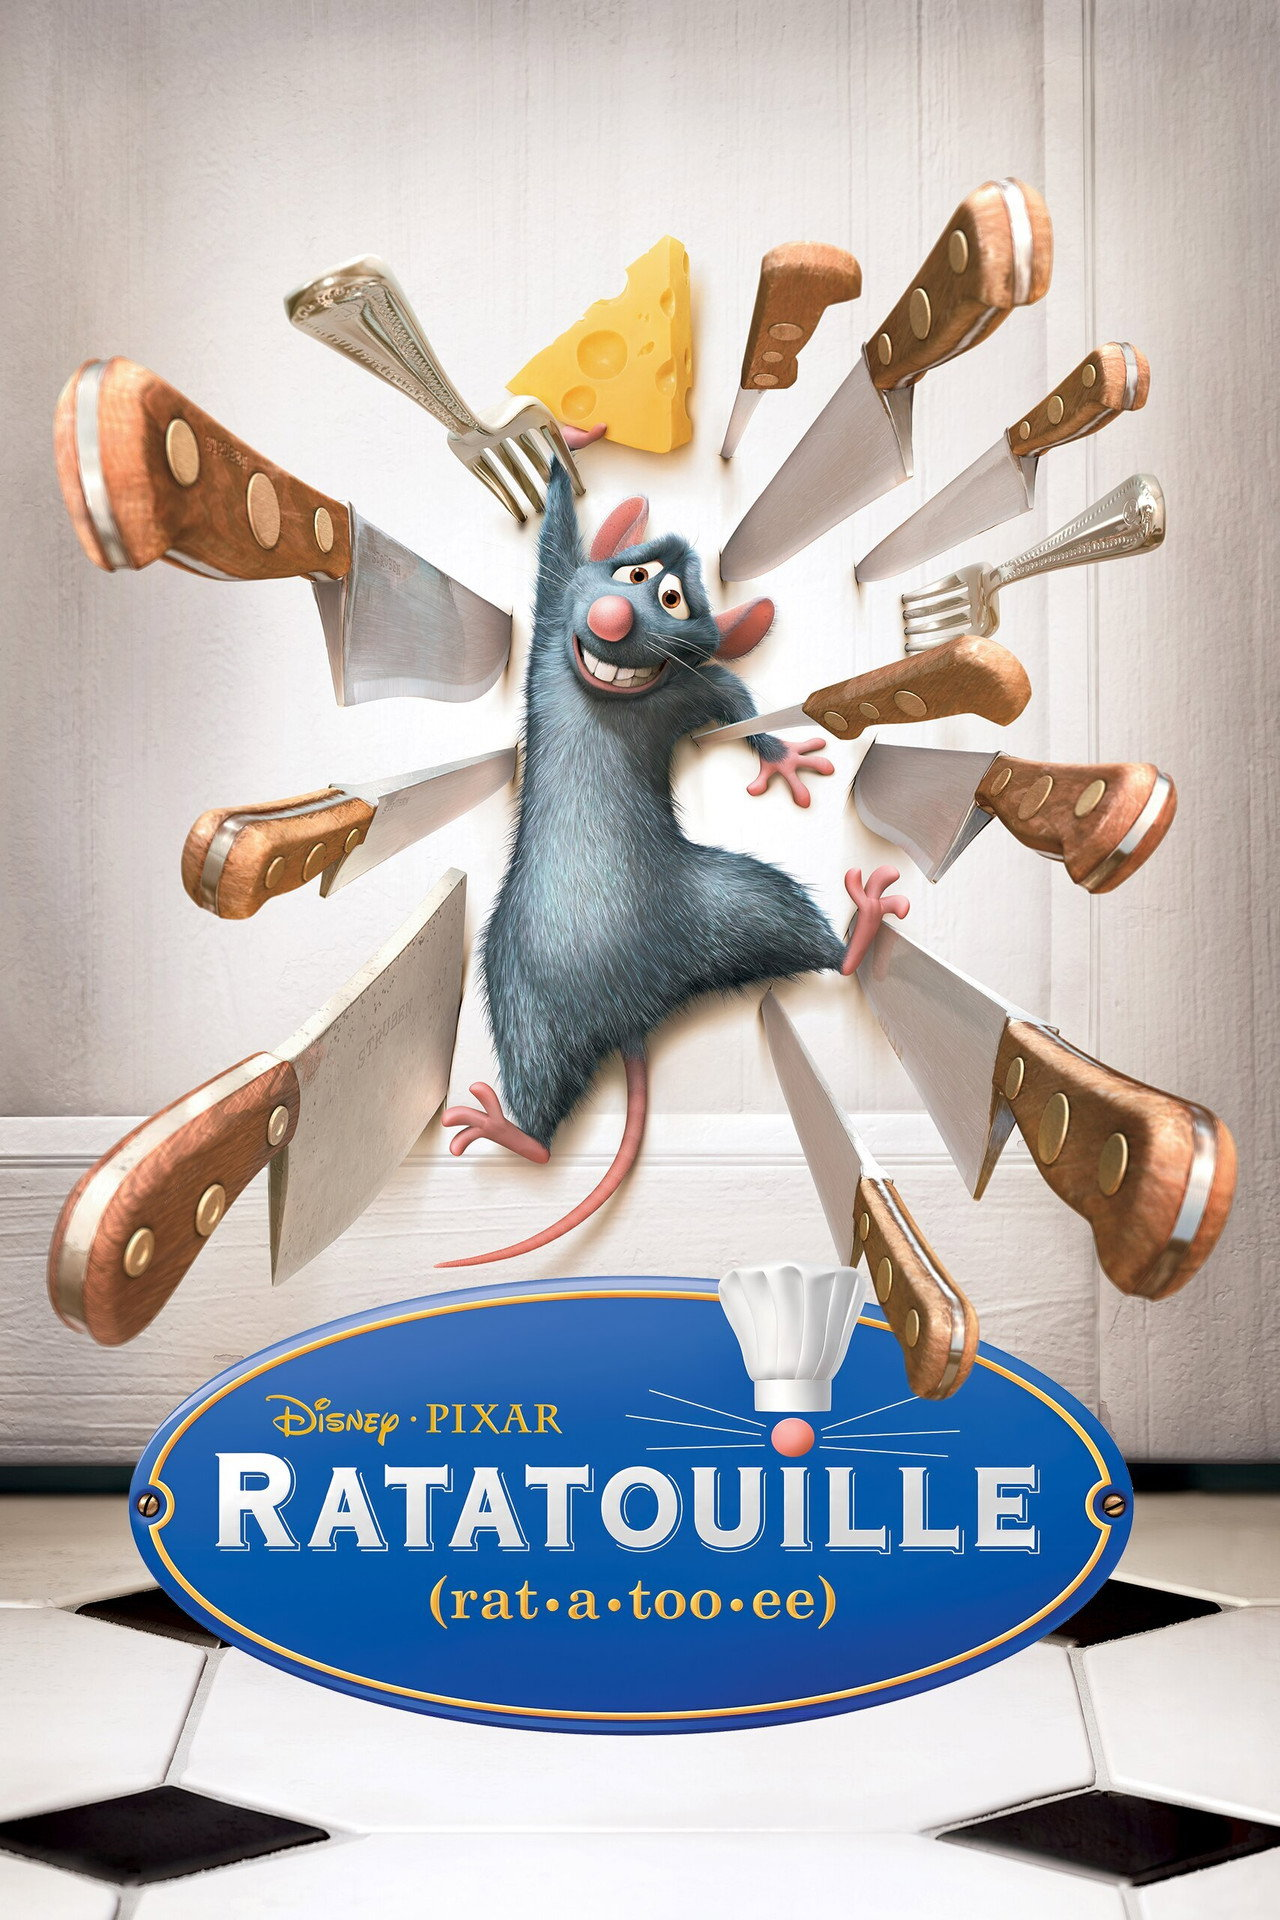
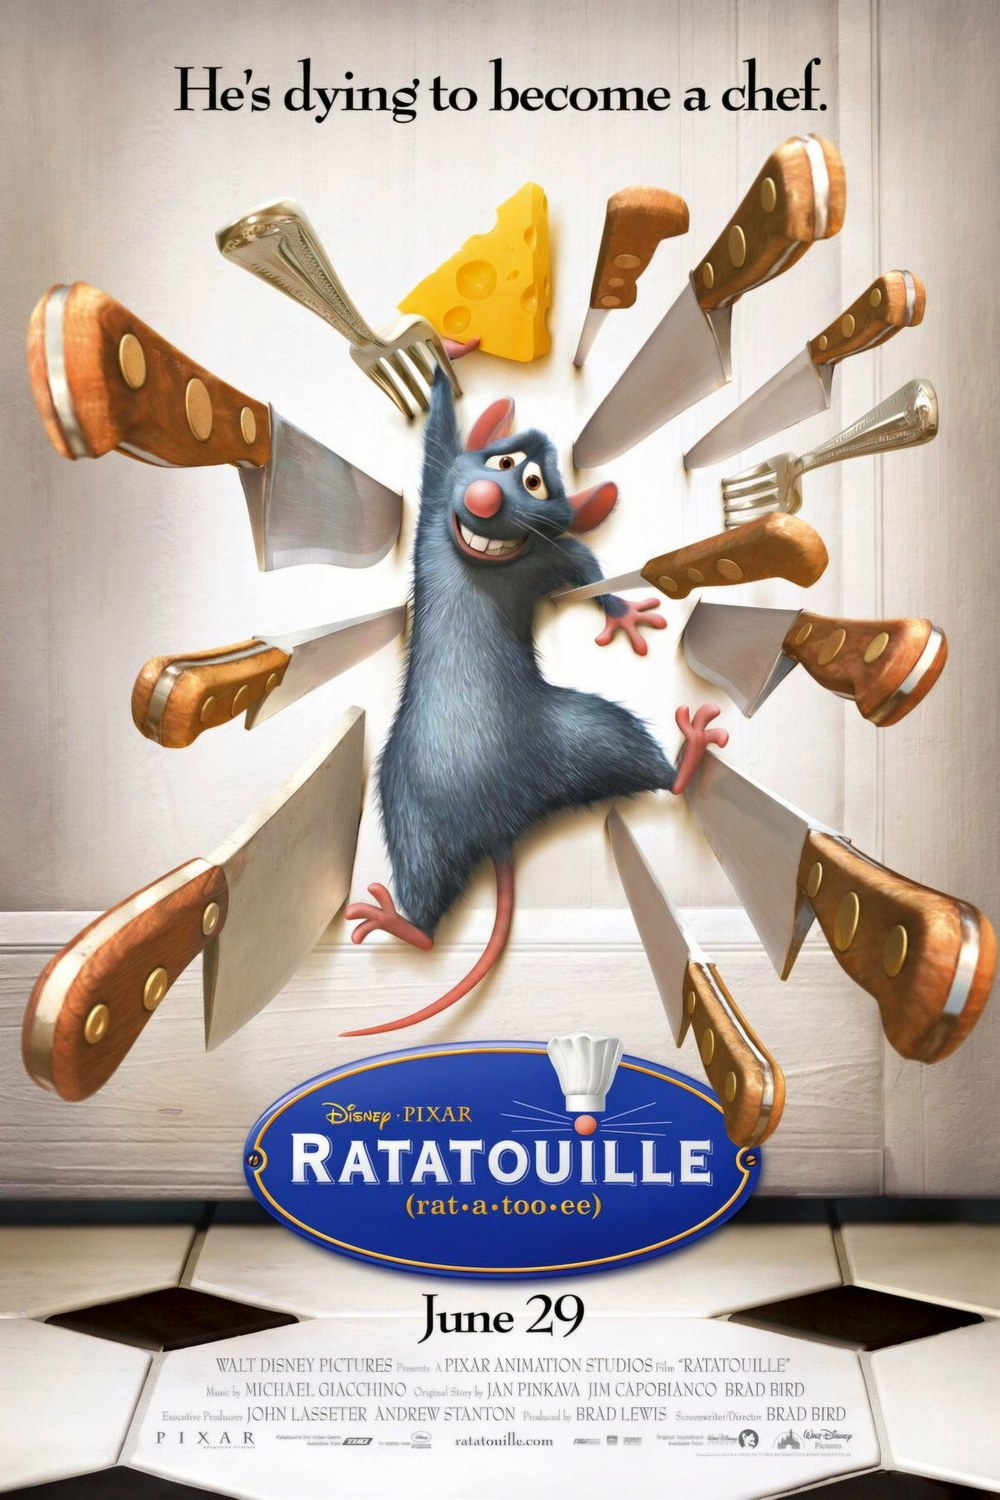
A few of my favo(u)rite things; more films and albums; simpler Now panel
Stuff is retitled, with "I like great craftsmanship" and a rule under the
photo. Ratatouille gets its own poster beside the V for Vendetta film, and
only Dark Souls II shifts. Music shows album names and adds Led Zeppelin
IV, Random Access Memories, and The New Abnormal. Now drops the Technical
and Non-technical split for one Showcase group, without Thai Sizzle.

diff --git a/stuff.html b/stuff.html
@@ -1,9 +1,14 @@
 ---
-title: Stuff
+title: A few of my favo(u)rite things
 permalink: /stuff/
-description: "Stuff, by Senthen Velmurugan."
+description: "A few of my favo(u)rite things, by Senthen Velmurugan."
 ---
-<img class="banner stuff-photo" width="2000" height="1333" src="{{ '/assets/img/everyday-carry.jpg' | relative_url }}" alt="Everyday carry on a cardboard box: a leather wallet, a folding knife, a phone, a G-Shock watch, and brass pens, clip, and lighter on a suede tray">
+<figure class="banner-fig">
+  <img class="banner" width="2000" height="1333" src="{{ '/assets/img/everyday-carry.jpg' | relative_url }}" alt="Everyday carry on a cardboard box: a leather wallet, a folding knife, a phone, a G-Shock watch, and brass pens, clip, and lighter on a suede tray">
+  <figcaption class="banner-caption">I like great craftsmanship</figcaption>
+</figure>
+
+<hr>
 
 <!-- One <li> per thing, in this order. -->
 <ul class="iam-list">
@@ -17,15 +22,15 @@ description: "Stuff, by Senthen Velmurugan."
 
 <hr>
 
-<h1>Stuff</h1>
+<h1>A few of my favo(u)rite things</h1>
 
 {% comment %} Categories and their items live in _data/stuff.yml. Each pair is two posters with a slash between them; below each poster a dot, which becomes its title · creator · year on hover. {% endcomment %}
 {% for c in site.data.stuff %}
 <section class="showcase">
   <h2 class="showcase-label">{{ c.label }}</h2>
-  {% for n in (0..1) %}{% assign from = n | times: 2 %}{% assign pair = c.items | slice: from, 2 %}{% if pair.size > 0 %}
+  {% for n in (0..9) %}{% assign from = n | times: 2 %}{% assign pair = c.items | slice: from, 2 %}{% if pair.size > 0 %}
   <ul class="covers{% if c.square %} covers-square{% endif %}">
-    {% for it in pair %}<li{% if it.also %} class="has-alt"{% endif %}><div class="cover-stack" tabindex="0"><img src="{{ '/assets/img/stuff/' | append: it.art | relative_url }}" loading="lazy" alt="{{ it.album | default: it.title | escape }}, {{ it.creator | escape }}">{% for a in it.also %}<img src="{{ '/assets/img/stuff/' | append: a.art | relative_url }}" loading="lazy" alt="{{ a.title | default: it.title | escape }}, {{ a.creator | default: it.creator | escape }}">{% endfor %}</div><p class="cover-note"><span class="cover-dot">·</span><span class="cover-meta on">{{ it.title | escape }} · {{ it.creator | escape }} · {{ it.year }}</span>{% for a in it.also %}<span class="cover-meta">{{ a.title | default: it.title | escape }} · {{ a.creator | default: it.creator | escape }} · {{ a.year | default: it.year }}</span>{% endfor %}</p></li>
+    {% for it in pair %}<li{% if it.also %} class="has-alt"{% endif %}><div class="cover-stack" tabindex="0"><img src="{{ '/assets/img/stuff/' | append: it.art | relative_url }}" loading="lazy" alt="{{ it.title | escape }}, {{ it.creator | escape }}">{% for a in it.also %}<img src="{{ '/assets/img/stuff/' | append: a.art | relative_url }}" loading="lazy" alt="{{ a.title | default: it.title | escape }}, {{ a.creator | default: it.creator | escape }}">{% endfor %}</div><p class="cover-note"><span class="cover-dot">·</span><span class="cover-meta on">{{ it.title | escape }} · {{ it.creator | escape }} · {{ it.year }}</span>{% for a in it.also %}<span class="cover-meta">{{ a.title | default: it.title | escape }} · {{ a.creator | default: it.creator | escape }} · {{ a.year | default: it.year }}</span>{% endfor %}</p></li>
     {% unless forloop.last %}<li class="cover-slash" aria-hidden="true">/</li>
     {% endunless %}{% endfor %}
   </ul>

diff --git a/assets/css/style.scss b/assets/css/style.scss
@@ -292,13 +292,12 @@ body::after { top: 18px; right: 18px; width: 45px; height: 13px; -webkit-mask: u
 
 /* Stuff: each category is two pairs: two posters with a slash between them. Below each, a dot, which becomes
    title · creator · year on hover or tap. The hidden text keeps its space, so nothing moves. */
-.stuff-photo { margin: 0 0 24px; }
 .showcase { margin: 0 0 2.4em; }
 .showcase-label { font-size: 0.75em; font-weight: 500; letter-spacing: 0.08em; text-transform: uppercase; color: var(--tx-2); margin: 0 0 0.6em; }
 .covers { list-style: none; display: grid; grid-template-columns: minmax(0, 1fr) auto minmax(0, 1fr); column-gap: 10px; margin: 0 0 0.8em; padding: 0; }
 .covers li { display: contents; }
 .covers li:first-child > * { grid-column: 1; }
-.covers li:last-child > * { grid-column: 3; }
+.covers li:last-child:not(:first-child) > * { grid-column: 3; }
 .cover-stack { grid-row: 1; position: relative; }
 .covers img { display: block; width: 100%; aspect-ratio: 2 / 3; object-fit: cover; border: 1px dotted var(--tx-2); }
 .cover-stack img:not(:first-child) { position: absolute; inset: 0; opacity: 0; transition: opacity 0.8s ease; }

diff --git a/now.html b/now.html
@@ -8,10 +8,8 @@ description: "What Senthen Velmurugan is doing now: projects, resume, and CV"
 highlight:
   - group: Actively working on
     projects: [pid-digitizer]
-  - group: Technical
-    projects: [dexpi-viewer, word2eq]
-  - group: Non-technical
-    projects: [campbell-woodworks, thai-sizzle]
+  - group: Showcase
+    projects: [dexpi-viewer, word2eq, campbell-woodworks]
 star: [pid-digitizer, dexpi-viewer]
 ---
 <h1>Now</h1>

diff --git a/README.md b/README.md
@@ -8,7 +8,7 @@ The rules for the site, then what each page is and where it lives. A static Jeky
 
 - **About** (`/`) is the main page. **Now** (`/now/`) is what I'm doing and what I've made. They are the only two links in the nav.
 - My name in the nav is plain text, not a link.
-- Projects, Resume, and CV are reached from Now. Stuff and Quality of Life are reached from About.
+- Projects, Resume, and CV are reached from Now. A few of my favo(u)rite things (`/stuff/`) and Quality of Life are reached from About.
 - Old links keep working: `/about/`, `/output/`, `/experiments/`, and `/experience/` redirect.
 
 ### Words
@@ -35,9 +35,9 @@ The rules for the site, then what each page is and where it lives. A static Jeky
 - Captions: Time is blocky uppercase. The banner, the tiramisu, and the formula are Gelasio italic, the only web font.
 - Every animation runs one way, 0 to 1. The Hi / Lo switch shows it all as still line art.
 
-### Stuff
+### A few of my favo(u)rite things
 
-- Every category is two pairs of posters: `item 1 / item 2`, then `item 3 / item 4`, with a dot below each poster and `title · lead · year` on hover. The order and the pairings are deliberate, so keep them.
+- Every category is rows of paired posters: `item 1 / item 2`, then `item 3 / item 4`, and so on, with a dot below each poster and `title · lead · year` on hover. The order and the pairings are deliberate, so keep them.
 
 ### Keeping it small
 
@@ -73,7 +73,7 @@ The layout is `_layouts/default.html`: `_includes/head.html`, `_includes/nav.htm
 | 0 → 1 ripple | Circles that touch at 0, each 1.17× the last | `_includes/ripples.html` |
 | Ripple, side view | The same circles edge-on, drawn as a wave, moving in step | `_includes/ripple-side.html` |
 | Who I am | My name in Tamil, English, and pronunciation | `index.md` |
-| Who am I | Quality of life, what I'm currently mastering (the empty box opens Stuff), and what I like | `index.md` |
+| Who am I | Quality of life, what I'm currently mastering (the empty box opens A few of my favo(u)rite things), and what I like | `index.md` |
 
 To change the rain, edit `CELL` (digit size) and `SPEED` (rows per second) in `cake.js`. The files keep the old "cake" names.
 
@@ -81,17 +81,19 @@ To change the rain, edit `CELL` (digit size) and `SPEED` (rows per second) in `c
 
 `quality-of-life.html`. One graph: three dashed tracks, Strategy, Tactics, Operations, whose bars are always in flux, each on its own rhythm.
 
-## Stuff
+## A few of my favo(u)rite things
 
-`stuff.html`, `_data/stuff.yml`. A photo, then a plain list of things I like doing, written in the page, and a rule. Then each category (Cinema, Music, Games, Literature, Graphic Novels) as two pairs of posters, with a `/` between the two in a pair. There are no titles on the page: below each poster is a `·`, and hovering or tapping turns it into `title · lead · year`, centered. The lead is the director, artist, author, or band. Two posters shift, and only these: WALL-E with Ratatouille, and Dark Souls II between two covers. A poster with `also:` fades through its images, one every 6 seconds (`assets/js/stuff.js`), pausing while hovered or tapped; Lo holds the first. Prefer covers with only the art, title, and author, in high resolution.
+`stuff.html`, `_data/stuff.yml`, at `/stuff/`. A photo captioned "I like great craftsmanship", a rule, a plain list of things I like doing written in the page, and a rule. Then each category (Cinema, Music, Games, Literature, Graphic Novels) as rows of paired posters, with a `/` between the two in a pair. There are no titles on the page: below each poster is a `·`, and hovering or tapping turns it into `title · lead · year`, centered. The lead is the director, artist, author, or band. Music shows albums; Blue Monday was a single, so it keeps its own name and floppy-disk sleeve.
 
-Art is in `assets/img/stuff/`. Albums come from Apple Music through [Ben Dodson's artwork finder](https://bendodson.com/projects/apple-music-artwork-finder/), movie posters from [The Movie Database](https://www.themoviedb.org/), games from Steam and [SteamGridDB](https://www.steamgriddb.com/), and books and comics from Apple Books and [Open Library](https://openlibrary.org/). Music shows my song under the cover of its release (`album:`), and Blue Monday uses its floppy-disk single sleeve.
+Only Dark Souls II shifts between two covers. A poster with `also:` fades through its images, one every 6 seconds (`assets/js/stuff.js`), pausing while hovered or tapped; Lo holds the first. Prefer covers with only the art, title, and author, in high resolution.
+
+Art is in `assets/img/stuff/`. Albums come from Apple Music through [Ben Dodson's artwork finder](https://bendodson.com/projects/apple-music-artwork-finder/), movie posters from [The Movie Database](https://www.themoviedb.org/), games from Steam and [SteamGridDB](https://www.steamgriddb.com/), and books and comics from Apple Books and [Open Library](https://openlibrary.org/).
 
 ```yaml
 - label: Music
   square: true                # square covers; the rest are 2:3 posters
   items:
-    - { title: "Blue Monday", album: "Blue Monday", creator: "New Order", year: 1983, art: blue-monday.jpg }
+    - { title: "The New Abnormal", creator: "The Strokes", year: 2020, art: the-new-abnormal.jpg }
 ```
 
 ## Now
@@ -102,10 +104,8 @@ Art is in `assets/img/stuff/`. Albums come from Apple Music through [Ben Dodson'
 highlight:
   - group: Actively working on
     projects: [pid-digitizer]
-  - group: Technical
-    projects: [dexpi-viewer, word2eq]
-  - group: Non-technical
-    projects: [campbell-woodworks, thai-sizzle]
+  - group: Showcase
+    projects: [dexpi-viewer, word2eq, campbell-woodworks]
 star: [pid-digitizer, dexpi-viewer]
 ```
 

diff --git a/index.md b/index.md
@@ -45,7 +45,7 @@ description: "About Senthen Velmurugan"
       <ul class="iam-list">
         <li>linguistics</li>
         <li>systems engineering</li>
-        <li><a href="{{ '/stuff/' | relative_url }}" class="blank-box" aria-label="Stuff"></a></li>
+        <li><a href="{{ '/stuff/' | relative_url }}" class="blank-box" aria-label="A few of my favo(u)rite things"></a></li>
       </ul>
       <p>I like good food and great conversations</p>
     </section>
